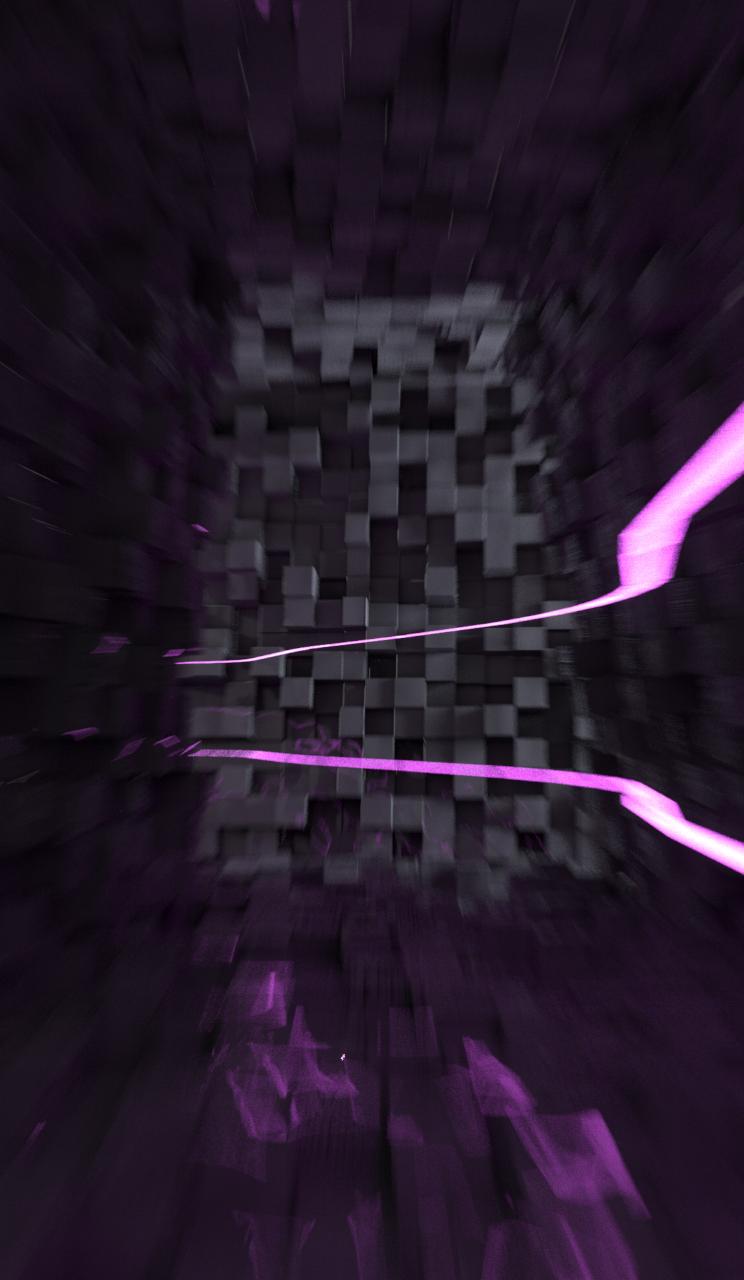
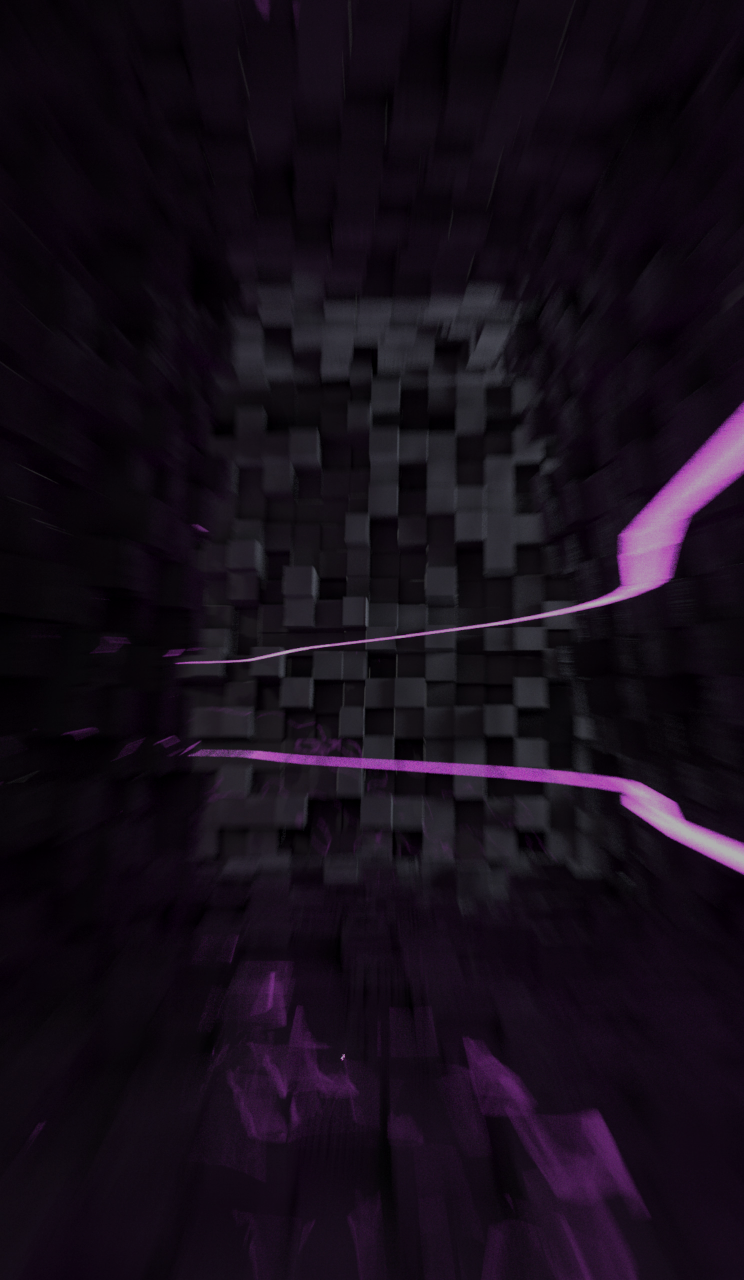
fix: brightness and contrast on the bg welcome screen

diff --git a/src/main.py b/src/main.py
@@ -1,5 +1,5 @@
 """
-Main application MDSANIMA-RT-GO
+Main application MDSANIMA RT GO
 """
 
 
